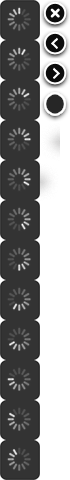
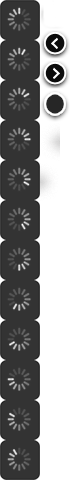
IM-2375

Changed region(s): [[0.6, 0.0, 0.9714, 0.0625]]

diff --git a/_js/fancybox/jquery.fancybox-1.3.4.css b/_js/fancybox/jquery.fancybox-1.3.4.css
@@ -87,7 +87,10 @@
 	-o-border-image: url('border.png') 45 54 31 repeat;
 	border-image: url('border.png') 45 54 31 fill repeat;
 }
-
+#fancybox-content + div {
+	background-color:#fff;
+	overflow: hidden;
+}
 #fancybox-hide-sel-frame {
 	position: absolute;
 	top: 0;
@@ -100,8 +103,8 @@
 
 #fancybox-close {
 	position: absolute;
-	top: -15px;
-	right: -15px;
+	top: -4px;
+	right: -94px;
 	width: 30px;
 	height: 30px;
 	background: transparent url('fancybox.png') -40px 0px;
